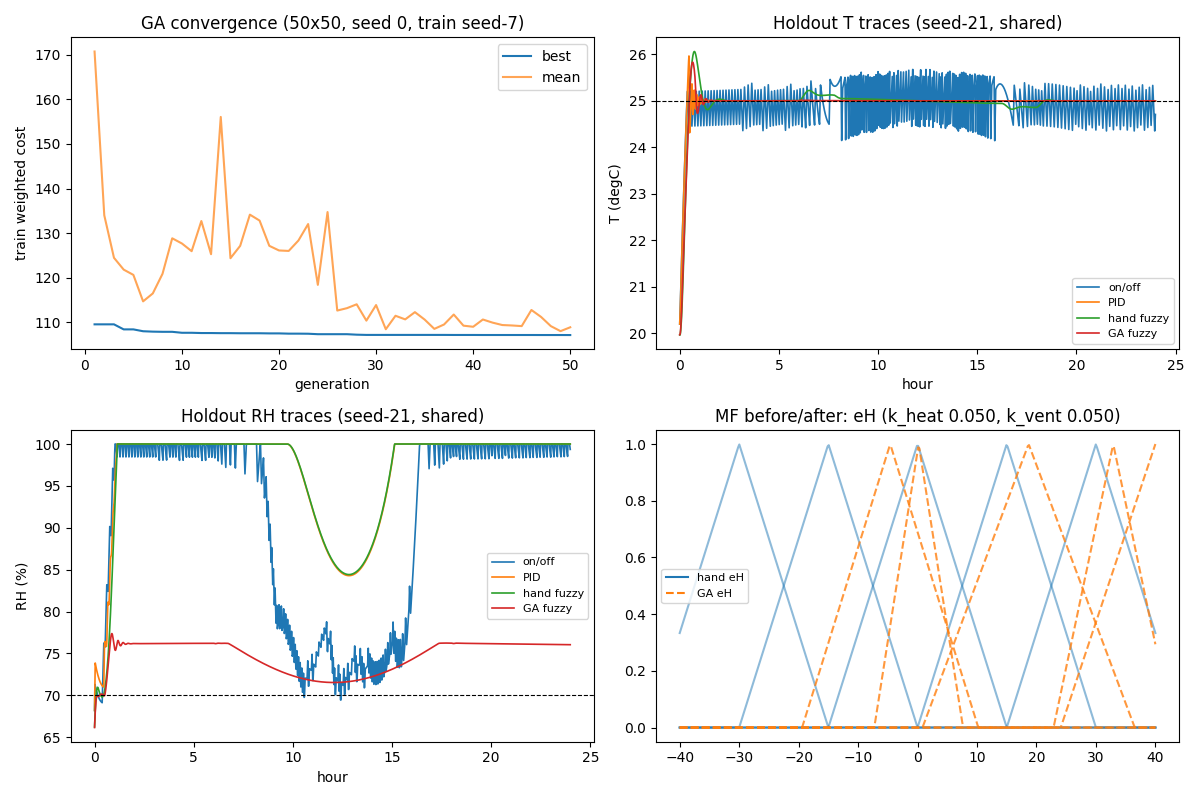
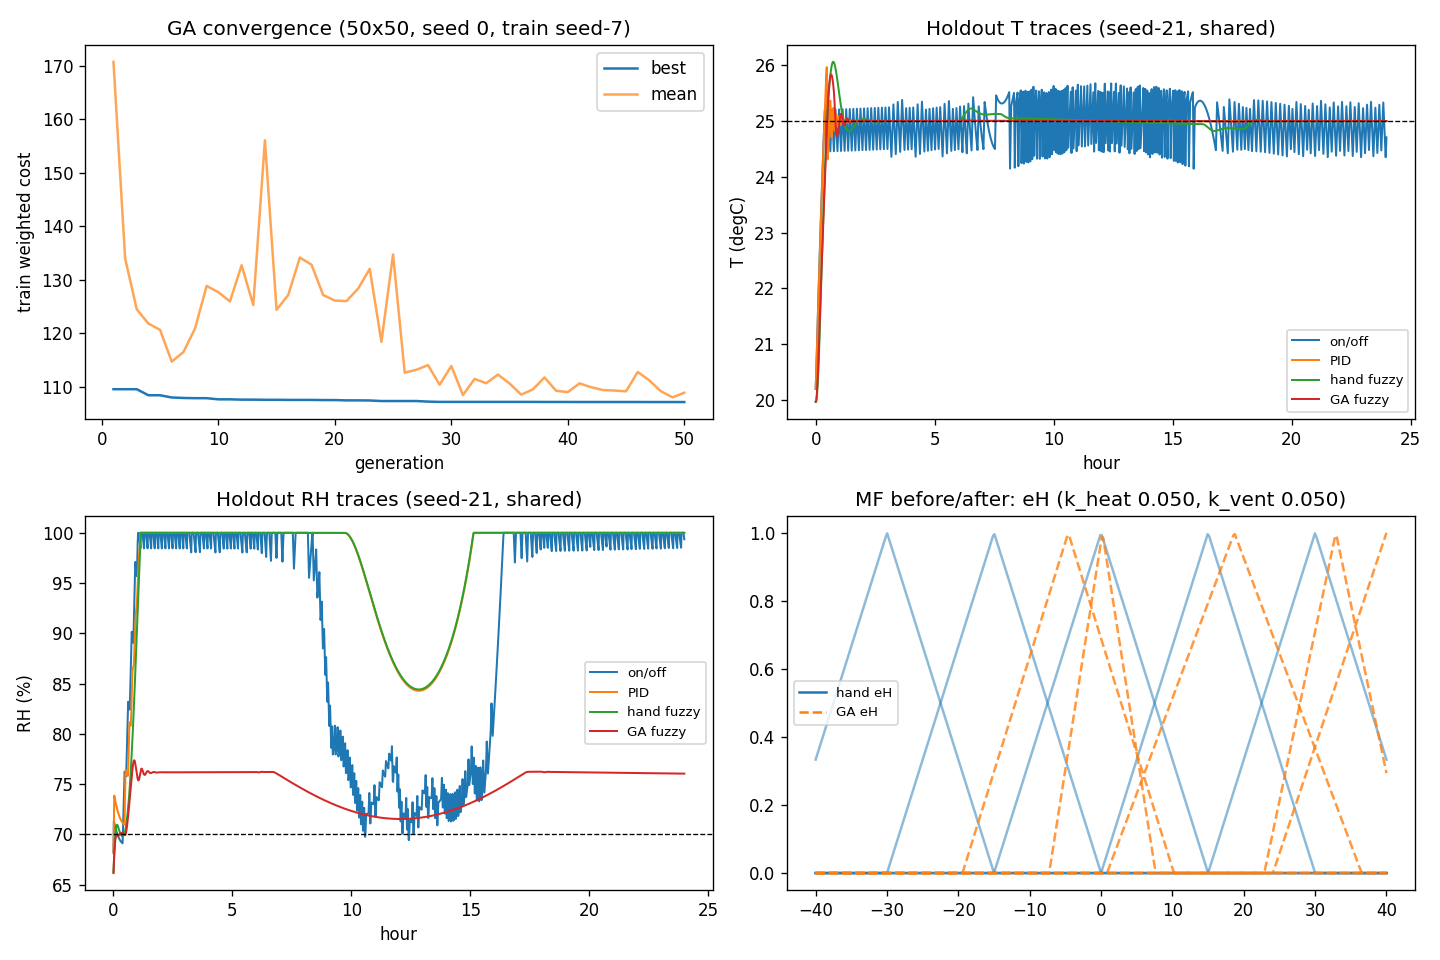
feat(06-01): audit harness plus 04 uniform-pattern fixes verified end-to-end

diff --git a/tests/test_notebooks.py b/tests/test_notebooks.py
@@ -1,0 +1,241 @@
+"""Plain-assert audit harness for the six milestone notebooks (PROOF-01).
+
+Implements the 10-item Uniform-Pattern Audit Checklist (06-RESEARCH.md
+Validation Architecture): nbformat validate warning-free, markdown title
+cell, stable cell ids, Agg-before-pyplot, src-only import allowlist,
+seed-7 weather guard, savefig path + dpi=120, PNG on disk >= 50 KB,
+headless exec of all code cells under Agg, and no metric/membership math
+inside 05/06 cells. Threat mitigations enforced: artifact provenance
+asserts (CSV header == COLUMNS, JSON schema v2), repo-relative paths,
+no evolution entry points in 05/06.
+
+Pytest-compatible naming (def test_*), but runs standalone because pytest is
+not installed (RESEARCH.md Validation Architecture). Imports live inside the
+test bodies so the file is runnable in wave-0 ordering.
+
+Run:  python tests/test_notebooks.py
+"""
+
+import os
+
+ROOT = os.path.dirname(os.path.dirname(os.path.abspath(__file__)))
+NB_DIR = os.path.join(ROOT, "notebooks")
+
+# Canonical six, front-to-back trail order (01 plant .. 06 verdict).
+NOTEBOOKS = [
+    "notebooks/01_greenhouse_model.ipynb",
+    "notebooks/02_baselines.ipynb",
+    "notebooks/03_fuzzy.ipynb",
+    "notebooks/04_ga_optimization.ipynb",
+    "notebooks/05_comparison.ipynb",
+    "notebooks/06_final_results.ipynb",
+]
+
+SEALED_FOUR = NOTEBOOKS[:4]
+
+# Checklist item 5: stdlib/third-party roots allowed besides src.*.
+ALLOWED_ROOTS = {"numpy", "matplotlib", "csv", "json", "os", "tempfile"}
+
+# Checklist item 6: verbatim guard substring (04 carries this plus its
+# locked isolated seed-21 tempfile path, which 05/06 must NOT copy).
+GUARD = "generate_weather_profile(CSV, seed=7)"
+
+# Checklist item 10: recomputation entry points 05 must never call.
+RECOMPUTE_CALLS = ("compare(", "compute_metrics", "weighted_cost(",
+                   "run_closed_loop(", "evolve", "genetic_algorithm")
+
+
+def _load(rel):
+    import nbformat
+    nb = nbformat.read(os.path.join(ROOT, rel), as_version=4)
+    return nb
+
+
+def _code_src(nb):
+    return "\n".join("".join(c.source)
+                     for c in nb.cells if c.cell_type == "code")
+
+
+def _present():
+    return [r for r in NOTEBOOKS if os.path.exists(os.path.join(ROOT, r))]
+
+
+def test_notebooks_present():
+    present = _present()
+    for r in SEALED_FOUR:
+        assert r in present, f"sealed notebook missing: {r}"
+    assert len(present) >= 4, present
+    print(f"notebooks present {len(present)}/6: "
+          + ", ".join(p.split('/')[-1][:2] for p in present))
+
+
+def test_validate_warning_free():
+    import warnings
+    import nbformat
+    for rel in _present():
+        with warnings.catch_warnings(record=True) as caught:
+            warnings.simplefilter("always")
+            nb = nbformat.read(os.path.join(ROOT, rel), as_version=4)
+            nbformat.validate(nb)
+        msgs = [str(w.message) for w in caught]
+        assert not msgs, (rel, msgs)
+    print(f"nbformat validate warning-free on {len(_present())} notebooks")
+
+
+def test_title_cells():
+    for rel in _present():
+        nb = _load(rel)
+        first = nb.cells[0]
+        assert first.cell_type == "markdown", (rel, first.cell_type)
+        assert "".join(first.source).lstrip().startswith("#"), rel
+    print("cell 0 is a markdown title on all present notebooks")
+
+
+def test_cell_ids():
+    for rel in _present():
+        nb = _load(rel)
+        missing = [i for i, c in enumerate(nb.cells) if not c.get("id")]
+        assert not missing, (rel, missing)
+    print("every cell carries a non-empty id (F-04-01 closed)")
+
+
+def test_agg_order():
+    for rel in _present():
+        src = _code_src(_load(rel))
+        assert 'use("Agg")' in src or "use('Agg')" in src, rel
+        agg = src.index("Agg")
+        assert "import matplotlib.pyplot" in src, rel
+        pp = src.index("import matplotlib.pyplot")
+        assert agg < pp, (rel, agg, pp)
+    print("matplotlib.use(Agg) precedes pyplot import everywhere")
+
+
+def test_import_allowlist():
+    import re
+    for rel in _present():
+        src = _code_src(_load(rel))
+        assert "pandas" not in src, (rel, "pandas forbidden by D-02")
+        for line in src.splitlines():
+            s = line.strip()
+            m = re.match(r"import\s+([\w\.]+)", s)
+            if m:
+                root = m.group(1).split(".")[0]
+                assert root in ALLOWED_ROOTS, (rel, s)
+                continue
+            m = re.match(r"from\s+([\w\.]+)\s+import\s+", s)
+            if m:
+                mod = m.group(1)
+                assert mod == "src" or mod.startswith("src.") \
+                    or mod.split(".")[0] in ALLOWED_ROOTS, (rel, s)
+    print("imports restricted to numpy/matplotlib/csv/json/os/tempfile + src.*")
+
+
+def test_weather_guard():
+    for rel in _present():
+        src = _code_src(_load(rel))
+        assert GUARD in src, (rel, "seed-7 regen-if-absent guard missing")
+    print("seed-7 weather guard present on all present notebooks")
+
+
+def test_savefig_dpi():
+    for rel in _present():
+        nb = _load(rel)
+        src = _code_src(nb)
+        stem = os.path.splitext(os.path.basename(rel))[0]
+        expect = f'savefig("notebooks/{stem}.png", dpi=120)'
+        assert expect in src, (rel, expect)
+        assert "dpi=100" not in src, (rel, "stale dpi=100 (F-04-02)")
+    print("savefig NN_name.png at locked dpi=120 everywhere")
+
+
+def test_png_size():
+    for rel in _present():
+        stem = os.path.splitext(os.path.basename(rel))[0]
+        png = os.path.join(ROOT, "notebooks", stem + ".png")
+        assert os.path.exists(png), png
+        size = os.path.getsize(png)
+        assert size >= 51200, (png, size)
+        print(f"png-ok {stem}.png {size} B")
+
+
+def test_no_math_in_0506():
+    for rel in ("notebooks/05_comparison.ipynb",
+                "notebooks/06_final_results.ipynb"):
+        if rel not in _present():
+            continue
+        src = _code_src(_load(rel))
+        for line in src.splitlines():
+            s = line.strip()
+            assert not s.startswith("def "), (rel, s)
+            assert not s.startswith("class "), (rel, s)
+        if rel.endswith("05_comparison.ipynb"):
+            for call in RECOMPUTE_CALLS:
+                assert call not in src, (rel, call)
+            assert '"rank"' in src or "['rank']" in src or '["rank"]' in src, \
+                (rel, "ranking must read the CSV rank column")
+            assert "argsort" not in src, (rel, "order from rank col, never recomputed")
+    print("05/06 cells define no metric/MF math; 05 reads rank, never recomputes")
+
+
+def test_provenance_asserts():
+    for rel in ("notebooks/05_comparison.ipynb",
+                "notebooks/06_final_results.ipynb"):
+        if rel not in _present():
+            continue
+        src = _code_src(_load(rel))
+        assert "== COLUMNS" in src, (rel, "CSV header must assert equality with COLUMNS")
+        assert "len(rows) == 8" in src, (rel, "8-row count assert missing")
+        for bad in ("/home/", "/Users/", "C:/", "C:\\"):
+            assert bad not in src, (rel, bad)
+        assert "evolve" not in src and "genetic_algorithm" not in src, \
+            (rel, "no evolution entry points in 05/06")
+    if "notebooks/06_final_results.ipynb" in _present():
+        src = _code_src(_load("notebooks/06_final_results.ipynb"))
+        assert "schema_version" in src and "== 2" in src, "06 JSON schema v2 assert"
+        assert "load_optimized_mfs" in src, "06 must load tuned curves via validated loader"
+    print("artifact provenance asserts + relative paths hold on 05/06")
+
+
+def test_headless_exec():
+    import time
+    for rel in _present():
+        nb = _load(rel)
+        ns = {}
+        t0 = time.time()
+        for c in nb.cells:
+            if c.cell_type == "code":
+                exec("".join(c.source), ns)
+        dt = time.time() - t0
+        assert dt < 600.0, (rel, dt)  # hang guard only, not a perf bar
+        print(f"exec-ok {rel.split('/')[-1]} in {dt:.1f}s")
+
+
+def test_results_untracked_changes():
+    import subprocess
+    out = subprocess.run(["git", "status", "--porcelain", "results/"],
+                         capture_output=True, text=True, cwd=ROOT).stdout
+    tracked = [ln for ln in out.splitlines() if not ln.startswith("??")]
+    assert not tracked, tracked
+    print("results/ tracked artifacts untouched")
+
+
+if __name__ == "__main__":
+    import sys
+    # "python tests/test_notebooks.py" puts tests/ on sys.path, not the
+    # repo root — prepend the root so the in-body `from src import ...` works
+    # both standalone and under pytest (which adds rootdir itself).
+    sys.path.insert(0, os.path.dirname(os.path.dirname(os.path.abspath(__file__))))
+    os.chdir(os.path.dirname(os.path.dirname(os.path.abspath(__file__))))
+    failures = []
+    for name, fn in sorted(globals().items()):
+        if name.startswith("test_") and callable(fn):
+            try:
+                fn()
+                print(f"PASS {name}")
+            except Exception as exc:
+                failures.append(name)
+                print(f"FAIL {name}: {exc!r}")
+    if failures:
+        print(f"{len(failures)} check(s) failed: {failures}")
+        sys.exit(1)
+    print("all checks passed")
